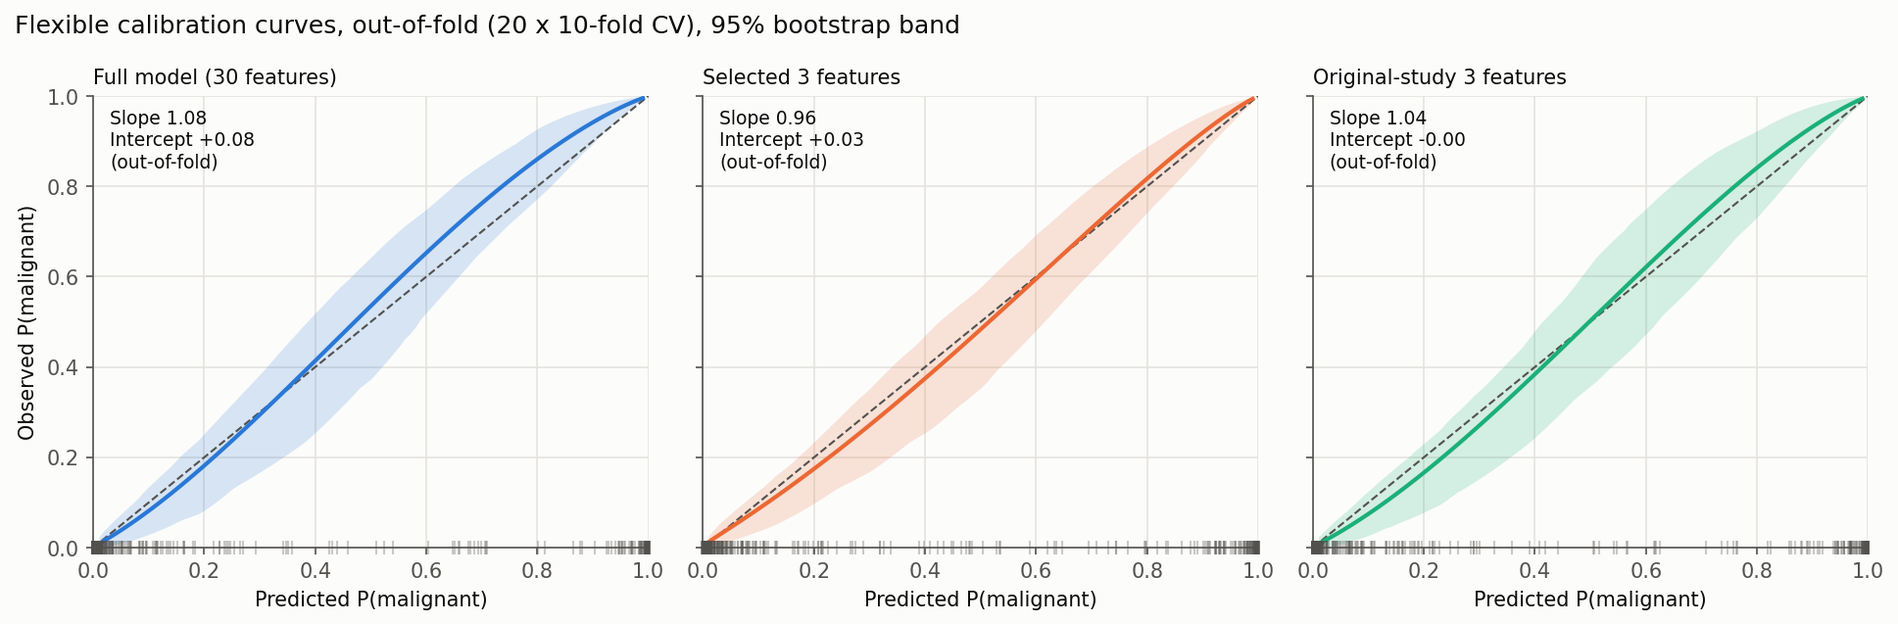
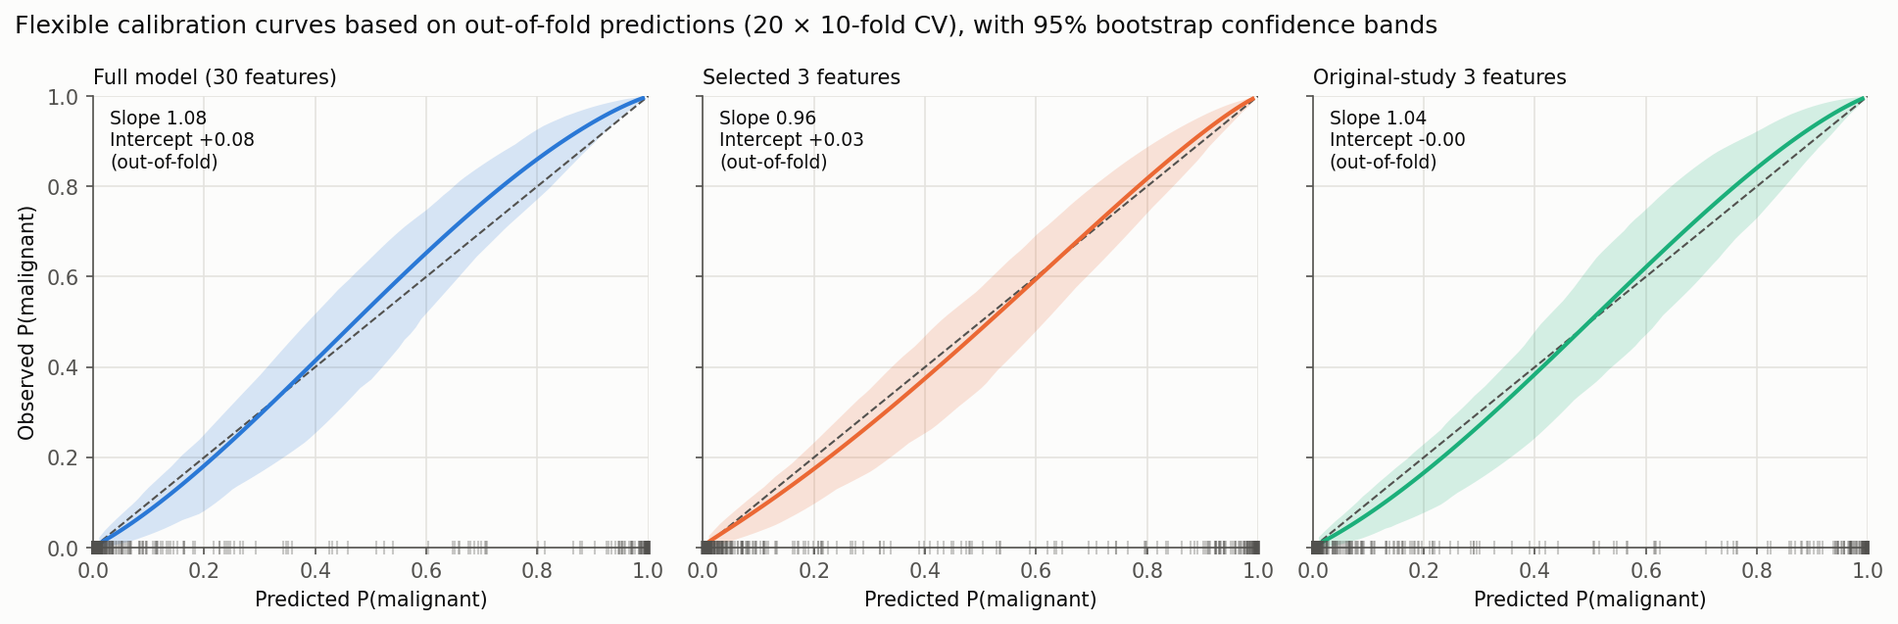
content(projects): align the WDBC page with the version 2 report
- New sections from the report: intended use (triple test), minimum
  sample size (Riley criteria), and the data-leakage checklist.
- Validation table gains the calibration intercept and slope SDs;
  sensitivity/specificity table at the 2% and 10% thresholds, with the
  cytopathology false-negative rate for comparison.
- Risk bands: malignant counts and published ranges, and the claim that
  every band matches is corrected (the atypical band is 13.5% vs 20%).
- Literature: the comparison table and the WBCD/WDBC note; the
  prospective 188/192 test is now called the most informative result,
  as in the report.
- Stability: original-feature model (1.1 points), median risk of the
  unstable cases, the changed forward-selection pick, the full equation
  with P and C = 10, and the full model's largest coefficients.
- Limitations and checks follow the report; the unsupported "inputs
  don't exist in clinics" point is dropped.
- References cover everything cited; figures updated to the v2 titles.

Changed region(s): [[0.1859, 0.0298, 0.7744, 0.0597]]

diff --git a/src/content/projects/wdbc-breast-cancer.md b/src/content/projects/wdbc-breast-cancer.md
@@ -6,8 +6,8 @@ summary: >-
   A malignancy model for the Wisconsin Diagnostic Breast Cancer data, built
   and validated to current clinical-prediction standards: bootstrap internal
   validation, calibration, decision curves at a clinically chosen biopsy
-  threshold, stability analysis, and an honest comparison with the original
-  1990s work.
+  threshold, sample size, stability analysis, and an honest comparison with
+  the original 1990s work.
 category: ml
 featured: false
 tags:
@@ -21,95 +21,179 @@ tags:
 
 ## About this project
 
-The Wisconsin Diagnostic Breast Cancer dataset is one of the most-used benchmarks in machine learning, and one of the most over-claimed: accuracies of 99% or more are common, often from a single lucky train/test split or from models tuned on the test set. This project asks a more useful question: what can honestly be said about a model for this data, if it is built and validated the way clinical prediction models are supposed to be? The analysis follows the methodological and clinical literature throughout: TRIPOD+AI reporting, calibration, decision curve analysis, minimum sample size, and model stability.
+The Wisconsin Diagnostic Breast Cancer dataset is one of the most-used benchmarks in machine learning, and one of the most over-claimed: accuracies of 99% or more are common, often from a single train/test split and sometimes from models tuned on the test set. This project asks a more useful question: what can honestly be said about a model for this data, if it is built and validated the way clinical prediction models are supposed to be? This is the second version of the analysis. It follows the methodological and clinical literature throughout: TRIPOD+AI reporting, internal validation by bootstrap, calibration, decision curve analysis at a biopsy threshold taken from clinical practice, minimum sample size, and model stability.
+
+## Intended use
+
+The setting is the evaluation of a breast mass by fine-needle aspiration. An operator outlines 10–20 cell nuclei on a digitised image of the slide, software measures the nuclei, and the model turns these measurements into a predicted probability of malignancy. The model is meant to support the cytology part of the triple test (clinical examination, imaging and cytology), not to replace the cytopathologist or the other two parts. The triple test is already very sensitive: it detects 99.6% of cancers when any part is positive [Irwig et al. 2002].
 
 ## The data
 
-The dataset has 569 fine-needle aspirates of breast masses, collected by Dr William H. Wolberg at the University of Wisconsin, Madison: 212 malignant and 357 benign. An operator outlined cell nuclei on a digitised image of each aspirate, and software measured ten properties of each nucleus, such as radius, texture, concavity and symmetry. Each property is reported three ways: the mean over nuclei, its standard error, and the "worst" value (the mean of the three largest). That gives 30 features. There are no missing values and no duplicate rows.
+The dataset has 569 fine-needle aspirates of breast masses, collected by Dr William H. Wolberg at the University of Wisconsin, Madison, and donated in November 1995: 212 malignant (37%) and 357 benign. Software measured ten properties of each nucleus, such as radius, texture, concavity and symmetry, and each property is reported three ways: the mean over nuclei, its standard error, and the "worst" value (the mean of the three largest). That gives 30 features. There are no missing values and no duplicate rows. The class imbalance was not corrected, because resampling distorts predicted probabilities.
+
+The outcome is the malignant or benign diagnosis recorded in the original study. In the group's later prospective series, benign diagnoses were confirmed by biopsy or by one year of follow-up [Wolberg et al. 1997], but the dataset documentation does not say how the 569 labels were established. No patient characteristics such as age or ethnicity are available.
 
 The classes are close to separable. A single feature, `perimeter_worst`, already separates them with an AUC of 0.975. The features are also highly redundant: radius, perimeter and area are close to the same measurement, and 21 pairs of features correlate above |r| = 0.9.
 
 ## The model
 
-The model is an L2-penalised logistic regression on the log-transformed, standardised features, with the penalty tuned by cross-validation. Logistic regression is the natural choice here. A systematic review found no performance benefit of machine learning over logistic regression for clinical prediction models [Christodoulou et al. 2019]. A logistic model gives probabilities that can be calibrated, and it can be written out in full. Three models were built: one on all 30 features, one on three features chosen by forward selection, and one on the three features used by the original study.
+The model is an L2-penalised logistic regression on the log-transformed, standardised features, with the penalty tuned by cross-validation. Logistic regression is the natural choice here. A systematic review found no performance benefit of machine learning over logistic regression for clinical prediction models [Christodoulou et al. 2019]. A logistic model gives probabilities that can be calibrated, and it can be written out in full. Three models were built: one on all 30 features, one on the three features used by the original study, and one on three features chosen by forward selection.
+
+## Is 569 cases enough?
+
+The minimum sample size was checked with the criteria of Riley et al. [2019, 2020, 2021]: the sample must be large enough to limit overfitting (an expected shrinkage factor of at least 0.9), to keep the gap between apparent and adjusted explained variance small, and to estimate the overall risk to within ±5 percentage points. The answer depends on how well the model is expected to discriminate:
+
+| Assumption | 30 predictors need | 3 predictors need |
+| --- | --- | --- |
+| Conservative default (Riley) | 2,303 | 360 |
+| Expected AUC 0.95 | 550 | 360 |
+| Expected AUC 0.99 | 479 | 360 |
+
+The original studies imply an AUC of at least 0.95. On that assumption, 569 cases are just enough for 30 predictors and comfortably enough for 3. Under the conservative default, the 30-feature model would be too large for the data, and it relies on the tuned L2 penalty to control overfitting. The internal validation below shows that the penalty does this job.
 
 ## Validating it properly
 
-With 569 cases, setting aside a test set wastes data and gives a noisy answer: a 20% test set would hold only about 42 cancers. Following current guidance [Steyerberg et al. 2001; Collins et al. 2024], each model was developed on all 569 cases. Its optimism was then estimated by refitting the entire procedure, including the penalty tuning and feature selection, on 500 bootstrap samples and on 20 repeats of 10-fold cross-validation.
+With 569 cases, setting aside a test set wastes data and gives a noisy answer: a 20% test set holds only about 42 cancers. Following current guidance [Steyerberg et al. 2001; Harrell et al. 1996; Collins et al. 2024], each model was developed on all 569 cases. Its optimism was then estimated by repeating the entire procedure, including the penalty tuning and the feature selection, on 500 bootstrap samples and on 20 repeats of 10-fold cross-validation.
 
-| Model | AUC (apparent → corrected) | Brier score | Accuracy | Calibration slope |
-|---|---|---|---|---|
-| Full model, 30 features | 0.998 → 0.996 | 0.018 | 98.0% | 1.08 |
-| Original-study 3 features | 0.993 → 0.993 | 0.022 | 97.7% | 1.04 |
-| Forward-selected 3 features | 0.992 → 0.990 | 0.024 | 97.1% | 0.96 |
+| Model | AUC (apparent → corrected) | Brier score | Accuracy | Calibration slope | Calibration intercept |
+| --- | --- | --- | --- | --- | --- |
+| Full model, 30 features | 0.998 → 0.996 | 0.018 | 98.0% | 1.08 ± 0.08 | +0.08 |
+| Original-study 3 features | 0.993 → 0.993 | 0.022 | 97.7% | 1.04 ± 0.03 | 0.00 |
+| Forward-selected 3 features | 0.992 → 0.990 | 0.024 | 97.1% | 0.96 ± 0.06 | +0.03 |
 
-A good AUC isn't enough for a model that outputs a risk: a predicted 20% should mean about 20%. Calibration was measured by the calibration slope and intercept, and by a flexible calibration curve [Van Calster et al. 2019]. All three models are well calibrated. One technical point: because the classes are nearly separable, the calibration slope has no stable estimate in some bootstrap samples (one in ten exceeded 3), so calibration was taken from repeated cross-validation, which gives stable estimates.
+_Brier score and accuracy are optimism-corrected. Calibration slope and intercept are the mean ± SD over 20 repeats of 10-fold cross-validation; the ideal values are 1 and 0. A slope slightly above 1 means slightly conservative, not overconfident, predictions._
 
-![Flexible calibration curves from out-of-fold predictions, with 95% bootstrap bands. All three models follow the diagonal.](/uploads/projects/wdbc-calibration.png "Figure 1: Flexible calibration curves from out-of-fold predictions, with 95% bootstrap bands. All three models follow the diagonal.")
+A good AUC isn't enough for a model that outputs a risk: a predicted 20% should mean about 20%. Calibration was measured by the calibration slope and intercept, and by a flexible calibration curve [Van Calster et al. 2016, 2019]. All three models are well calibrated. One technical point: because the classes are nearly separable, the calibration slope has no stable estimate in some bootstrap samples (it exceeded 3 in about one sample in ten, and reached 72 in one). The bootstrap is still fine for the AUC and Brier score, but calibration was taken from repeated cross-validation, which gives stable estimates, as Collins et al. [2024] also recommend.
+
+![Flexible calibration curves from out-of-fold predictions, with 95% bootstrap bands. All three curves lie close to the diagonal. The rug shows that most predictions are close to 0 or 1, which is why the bands are wide at intermediate probabilities.](/uploads/projects/wdbc-calibration.png "Figure 1: Flexible calibration curves from out-of-fold predictions, with 95% bootstrap bands. All three curves lie close to the diagonal. The rug shows that most predictions are close to 0 or 1, which is why the bands are wide at intermediate probabilities.")
 
 ## A biopsy threshold from clinical practice
 
-A diagnostic model is only useful if acting on it leads to better decisions. Rather than picking a cutoff from the data, the threshold was fixed in advance from how breast lesions are managed. In the BI-RADS system, a lesion with a malignancy risk of 2% or less is "probably benign" and gets short-interval follow-up, while above 2% a biopsy is recommended. A decision-analysis model also found about 2% to be optimal for women aged 42–75 [Burnside et al. 2012]. A 2% threshold means accepting up to 49 unnecessary biopsies to find one cancer.
+A diagnostic model is only useful if acting on it leads to better decisions. Rather than picking a cutoff from the data, the threshold was fixed in advance from how breast lesions are managed. In the BI-RADS system, a lesion with a malignancy risk of 2% or less is "probably benign" and gets short-interval follow-up, while above 2% a biopsy is recommended. A decision-analysis model also found about 2% to be optimal for women aged 42–75 [Burnside et al. 2012], and the Yokohama "benign" cytology category carries a pooled malignancy risk of about 1% [Nikas et al. 2023]. A 2% threshold means accepting up to 49 unnecessary biopsies to find one cancer. A 10% threshold was analysed as a sensitivity check.
 
-Decision curve analysis [Vickers et al. 2019] asks whether acting on the model beats the default strategies of biopsying everyone or no one. At the 2% threshold, the full model flags 99.3% of cancers and avoids 36 unnecessary biopsies per 100 patients. A 3-feature model avoids 21–25. At higher thresholds the gap closes: it is under one biopsy per 100 from about 9%. The extra features earn their place exactly where the clinical threshold sits.
+Decision curve analysis [Vickers & Elkin 2006; Vickers et al. 2019] asks whether acting on the model beats the default strategies of biopsying everyone or no one. The full and forward-selected models beat biopsying everyone at every threshold from 1% to 20%, and the original-feature model does from just above 1%. At the 2% threshold, the full model avoids about 36 unnecessary biopsies per 100 patients, and the three-feature models 21–25. The gap closes at higher thresholds and falls below one biopsy per 100 above about 9%. The extra features earn their place exactly where the clinical threshold sits.
 
 ![Decision curves over thresholds from 1% to 20%. Left: net benefit. Right: net unnecessary biopsies avoided per 100 patients, compared with biopsying everyone.](/uploads/projects/wdbc-decision-curve.png "Figure 2: Decision curves over thresholds from 1% to 20%. Left: net benefit. Right: net unnecessary biopsies avoided per 100 patients, compared with biopsying everyone.")
 
-The model's output can also be reported in risk bands that match the Yokohama system, which cytopathologists use to report breast aspirates. The observed malignancy rate in each band is close to the published risk for the matching category [Nikas et al. 2023]:
+| Model | Threshold | Sensitivity | Cancers missed (of 212) | Specificity | Benign biopsied (of 357) |
+| --- | --- | --- | --- | --- | --- |
+| Full model | 2% | 99.3% | 1.5 | 77.5% | 80 |
+| Original-study 3 features | 2% | 98.6% | 3.0 | 74.9% | 90 |
+| Full model | 10% | 98.0% | 4.2 | 90.0% | 36 |
+| Original-study 3 features | 10% | 98.3% | 3.6 | 88.0% | 43 |
 
-| Predicted risk | Cases | Observed malignant | Published risk (Yokohama) |
-|---|---|---|---|
-| 0–2% | 276 | 0.4% | Benign: 1% |
-| 2–10% | 49 | 6.1% | (BI-RADS 4A: 2–10%) |
-| 10–50% | 37 | 13.5% | Atypical: 20% |
-| 50–95% | 29 | 86.2% | Suspicious: 86% |
-| 95–100% | 178 | 100% | Malignant: 100% |
+_Out-of-fold predictions averaged over 20 repeats of 10-fold cross-validation, so counts can be fractional. For comparison, the pooled false-negative rate of aspiration cytology read by cytopathologists is 3.7% [Hoda & Brachtel 2019]._
+
+## Risk bands
+
+Cytopathologists report breast aspirates in the five categories of the Yokohama system [Field et al. 2019], each with an established risk of malignancy. Reporting the model's output in matching risk bands puts it in a framework clinicians already know. The observed malignancy rates are broadly consistent with the published ones, with one exception: the atypical-equivalent band (13.5% observed against 20% published).
+
+| Band | Predicted risk | Cases | Malignant | Observed rate | Published risk |
+| --- | --- | --- | --- | --- | --- |
+| Benign-equivalent | 0–2% | 276 | 1 | 0.4% | Yokohama Benign: 1% (1–3%) |
+| Low suspicion | 2–10% | 49 | 3 | 6.1% | BI-RADS 4A: >2–10% |
+| Atypical-equivalent | 10–50% | 37 | 5 | 13.5% | Yokohama Atypical: 20% (17–23%) |
+| Suspicious-equivalent | 50–95% | 29 | 25 | 86.2% | Yokohama Suspicious: 86% (79–92%) |
+| Malignant-equivalent | 95–100% | 178 | 178 | 100% | Yokohama Malignant: 100% (99–100%) |
+
+_Full model, out-of-fold predictions averaged over 20 repeats. Pooled Yokohama risks from Nikas et al. [2023] (18 studies, 7,969 cases); BI-RADS 4A range from Elezaby et al. [2018]. The prevalence of malignancy here is 37%; in a setting with a different prevalence, the model's intercept must be recalibrated before the bands mean the same thing._
 
 ## How stable are the results?
 
-A model developed on 569 cases could have come out differently on another sample of 569 [Riley & Collins 2023]. Refitted on 500 bootstrap samples, a patient's predicted risk moves by 1.6 percentage points on average. The unstable cases cluster around the 2% threshold, and 74 of the 79 whose decision flips in more than 10% of refitted models are benign.
+A model developed on 569 cases could have come out differently on another sample of 569 [Riley & Collins 2023]. Refitted on 500 bootstrap samples, a patient's predicted risk moves by 1.6 percentage points on average (1.1 for the original-feature model). The unstable cases sit near the 2% threshold: for 79 cases, more than 10% of the refitted models give the opposite decision, and 74 of them are benign, with a median predicted risk of 3%.
 
-A "best three features" model found by forward selection looks attractive, but it doesn't survive the bootstrap: the same procedure picked 46 different three-feature sets across 500 resamples, and the most common set appeared only 25% of the time. The original study's three features (mean texture, worst area and worst smoothness) were fixed in advance, so they don't vary between samples. They also give more stable predictions, so they make the better simple model:
+![Left: range of each case's prediction across 500 bootstrap models. Right: share of bootstrap models that flip each case's decision at the 2% threshold. Predictions near 0 or 1 are stable; instability is concentrated in borderline cases.](/uploads/projects/wdbc-stability.png "Figure 3: Left: range of each case's prediction across 500 bootstrap models. Right: share of bootstrap models that flip each case's decision at the 2% threshold. Predictions near 0 or 1 are stable; instability is concentrated in borderline cases.")
+
+A "best three features" model found by forward selection looks attractive, but it doesn't survive the bootstrap. The same procedure picked 46 different three-feature sets across 500 resamples, and the most common set appeared in only 25% of them. Run on all 569 cases, it now picks `smoothness_worst` where the first version of the analysis picked `concave points_mean`. Only `perimeter_worst` (85%) and `texture_worst` (77%) are chosen consistently.
+
+![How often forward selection picked each feature across 500 bootstrap samples. Only perimeter_worst and texture_worst are chosen consistently.](/uploads/projects/wdbc-selection-frequency.png "Figure 4: How often forward selection picked each feature across 500 bootstrap samples. Only perimeter_worst and texture_worst are chosen consistently.")
+
+The original study's three features (mean texture, worst area and worst smoothness) capture the same properties of the nuclei: size, texture and shape. They were fixed in advance, so they don't vary between samples, and they give better-calibrated and more stable predictions. They make the better simple model. TRIPOD+AI asks for enough detail to compute predictions independently, and this model is small enough to write out in full; the equation reproduces the fitted model's predictions exactly:
 
 $$
 \operatorname{logit} P(\text{malignant}) = -120.04 + 7.447\,\ln(1+\text{texture}_{\text{mean}}) + 12.458\,\ln(1+\text{area}_{\text{worst}}) + 111.72\,\ln(1+\text{smoothness}_{\text{worst}})
 $$
 
-![How often forward selection picked each feature across 500 bootstrap samples. Only perimeter_worst and texture_worst are chosen consistently.](/uploads/projects/wdbc-selection-frequency.png "Figure 3: How often forward selection picked each feature across 500 bootstrap samples. Only perimeter_worst and texture_worst are chosen consistently.")
-
-![Left: range of each case's prediction across 500 bootstrap models. Right: share of bootstrap models that flip each case's decision at the 2% threshold.](/uploads/projects/wdbc-stability.png "Figure 4: Left: range of each case's prediction across 500 bootstrap models. Right: share of bootstrap models that flip each case's decision at the 2% threshold.")
+with $P = 1/(1 + e^{-\operatorname{logit}})$ and an L2 penalty $C = 10$, tuned by inner cross-validation. All 30 coefficients of the full model, with the transformation and scaling constants, are saved with the code. Its largest standardised coefficients are for `texture_worst`, `radius_se`, `area_se` and `concave points_mean`; because the features are strongly correlated, individual coefficients should not be read as independent effects.
 
 ## Where this sits in the literature
 
-The original team picked a three-feature classifier with 97.5% cross-validated accuracy, then validated it on consecutive new patients: 188 of 192 correct (97.9%) [Wolberg et al. 1997]. A logistic regression on their three features scores 97.7% here, and the full model 98.0%. So this work **matches the original results; it does not beat them**. The most informative result in the literature is the least flattering one: on 56 difficult, indeterminate aspirates at another hospital, the same system reached 75% accuracy [Teague et al. 1997].
+The original team chose their classifier by searching over feature subsets, then tested it prospectively on consecutive new patients, a notably rigorous design for its time. That prospective test is the most informative result in the table below. Many later studies report 99% or more, often from a single train/test split and sometimes with the model tuned on the test set.
+
+| Study | Model | Validation | Result |
+| --- | --- | --- | --- |
+| Street, Wolberg & Mangasarian 1993–95 | One separating plane (MSM-T) on 3 features | Repeated 10-fold CV | 97.5% accuracy |
+| Wolberg et al. 1995, _Hum Pathol_ | Logistic regression | Cross-validation | 96.2% accuracy |
+| Wolberg et al. 1997, _Breast J_ | Same 3-feature classifier | Prospective, consecutive new patients | 188/192 (97.9%) |
+| Teague et al. 1997, _Cancer_ | Same system, 3 features | External (Iowa), 56 indeterminate aspirates | 75% accuracy |
+| Mert et al. 2015 | Neural network, 30 features | 20% hold-out; network size chosen on the test set | 99.1% (leaky) |
+| This project, full model | L2 logistic regression, 30 features | Bootstrap optimism-corrected | 98.0%, AUC 0.996 |
+| This project, original features | Logistic regression on the original 3 features | Bootstrap optimism-corrected | 97.7%, AUC 0.993 |
+
+_Only results on the 569-case dataset are included. The earlier 699-case Wisconsin Breast Cancer Database (WBCD) is a different dataset, with nine visually graded features and many duplicate records, and its results are often wrongly attributed to WDBC._
+
+So this work **matches the original results; it does not beat them**. And the least flattering result is a warning: on 56 difficult, indeterminate aspirates at another hospital, the same system reached only 75% accuracy [Teague et al. 1997].
+
+## Checking for data leakage
+
+Possible sources of leakage were checked against the taxonomy of Kapoor & Narayanan [2023]:
+
+- **Preprocessing.** The log transform and standardisation are fitted inside each training fold and bootstrap sample, never on data used for evaluation.
+- **Tuning and feature selection** are repeated inside each resample; no modelling decision uses evaluation data.
+- **No duplicates or oversampling.** The dataset has no duplicate records, and no synthetic cases were generated.
+- **No cherry-picked splits.** Results are averaged over 500 bootstrap samples and 20 cross-validation repeats with fixed seeds, not taken from the best of several splits.
+- **Fair comparisons.** Only results on the 569-case dataset are cited.
+- **Test data from the target population: not satisfied.** All validation is internal, on data from one centre and one period. Internal validation cannot rule out this kind of leakage.
 
 ## Limitations
 
-- **One operator, one hospital, 1990s imaging.** All validation here is internal. Only testing at another centre can show whether the model transfers, and the one historical attempt suggests it may not.
-- **The inputs don't exist in clinics today.** The model needs measurements from the original team's software, in which an operator traced nuclei by hand.
-- **Prevalence.** 37% of these cases are malignant. In a clinic with a different rate, the model's intercept must be recalibrated before its probabilities or risk bands mean the same thing.
+- **One operator, one hospital, 1990s imaging.** The original authors describe their system as validated for a single investigator at one institution, and on 56 indeterminate aspirates at another hospital it reached 75% accuracy [Teague et al. 1997]. External validation, with its own sample-size calculation [Riley et al. 2024], is needed before any clinical use.
+- **Prevalence.** 37% of these cases are malignant. The model's intercept must be recalibrated to the local prevalence before its probabilities or risk bands are used.
+- **Calibration at low risk.** With 357 benign and 212 malignant cases, calibration below about 5% risk is estimated with limited precision, and that is where the 2% threshold lies. Van Calster et al. suggest at least about 200 events and 200 non-events for calibration curves, which this dataset only just meets.
 - **No patient characteristics,** so performance across age or ethnic groups can't be checked.
+- **No provision for inadequate samples.** The model assumes an adequate aspirate with measurable nuclei; it has no equivalent of the Yokohama "non-diagnostic" category.
+- **Outcome ascertainment** for the 569 labels is not documented in the dataset.
+- **Not addressed:** protocol registration and patient and public involvement (TRIPOD+AI items 18–19).
 
 This is a methodological case study, not a clinical tool.
 
 ## How the results were checked
 
-- A full re-run reproduces every result file and figure byte for byte.
-- With the labels shuffled, the whole pipeline gives an AUC of 0.48, as it should when nothing leaks.
-- The bootstrap, re-implemented from scratch with different seeds, gives the same corrected AUC to three decimals.
-- The calibration measures recover the known answers on simulated data, and the sample-size formulas match the reference `pmsampsize` implementation term for term.
-- Every reference was checked against Crossref by DOI.
+- **Reproducibility.** A full re-run of the analysis reproduces every result file and figure exactly.
+- **Permutation test.** With the labels shuffled, the whole pipeline gives an AUC of 0.48, close to the 0.5 expected when nothing leaks.
+- **Independent implementation.** The bootstrap, re-implemented separately with different seeds and inner folds, gives an optimism-corrected AUC of 0.9929 for the original-feature model (main pipeline: 0.9926).
+- **Calibration measures.** On simulated data they recover the true values (slope 1 for calibrated predictions, 0.5 for overconfident ones, intercept −1 when risk is overestimated by 1 on the logit scale), and agree with an independent maximum-likelihood fit to four decimal places.
+- **Sample size.** The calculations match the reference `pmsampsize` implementation term by term.
+- **Net benefit and risk bands.** Net benefit recomputed from the reported sensitivity and specificity agrees with the decision curves, and the risk-band counts agree with the stored predictions.
+- **References.** Every reference was checked against Crossref by DOI.
 
 ## References
 
-- Burnside ES, Chhatwal J, Alagoz O. What is the optimal threshold at which to recommend breast biopsy? *PLoS ONE* 2012;7:e48820.
-- Christodoulou E, et al. A systematic review shows no performance benefit of machine learning over logistic regression for clinical prediction models. *J Clin Epidemiol* 2019;110:12–22.
-- Collins GS, et al. TRIPOD+AI statement. *BMJ* 2024;385:e078378; and Evaluation of clinical prediction models (part 1). *BMJ* 2024;384:e074819.
-- Nikas IP, et al. The use of the IAC Yokohama System for reporting breast fine-needle aspiration biopsy: a systematic review and meta-analysis. *Am J Clin Pathol* 2023;159:138–145.
-- Riley RD, Collins GS. Stability of clinical prediction models developed using statistical or machine learning methods. *Biom J* 2023;65:e2200302.
-- Steyerberg EW, et al. Internal validation of predictive models. *J Clin Epidemiol* 2001;54:774–781.
-- Teague MW, et al. Indeterminate fine-needle aspiration of the breast: image analysis-assisted diagnosis. *Cancer* 1997;81:129–135.
-- Van Calster B, et al. Calibration: the Achilles heel of predictive analytics. *BMC Med* 2019;17:230.
-- Vickers AJ, van Calster B, Steyerberg EW. A simple, step-by-step guide to interpreting decision curve analysis. *Diagn Progn Res* 2019;3:18.
-- Wolberg WH, Street WN, Mangasarian OL. Computerized diagnosis of breast fine-needle aspirates. *Breast J* 1997;3:77–80.
+- Burnside ES, Chhatwal J, Alagoz O. What is the optimal threshold at which to recommend breast biopsy? _PLoS ONE_ 2012;7:e48820.
+- Christodoulou E, et al. A systematic review shows no performance benefit of machine learning over logistic regression for clinical prediction models. _J Clin Epidemiol_ 2019;110:12–22.
+- Collins GS, Moons KGM, Dhiman P, et al. TRIPOD+AI statement. _BMJ_ 2024;385:e078378.
+- Collins GS, Dhiman P, Ma J, et al. Evaluation of clinical prediction models (part 1). _BMJ_ 2024;384:e074819.
+- Elezaby M, Li G, Bhargavan-Chatfield M, Burnside ES, DeMartini WB. ACR BI-RADS assessment category 4 subdivisions in diagnostic mammography: utilization and outcomes in the National Mammography Database. _Radiology_ 2018;287:416–422.
+- Field AS, Raymond WA, Rickard M, et al. The IAC Yokohama System for Reporting Breast FNAB Cytopathology. _Acta Cytol_ 2019;63:257–273.
+- Harrell FE, Lee KL, Mark DB. Multivariable prognostic models. _Stat Med_ 1996;15:361–387.
+- Hoda RS, Brachtel EF. International Academy of Cytology Yokohama System for Reporting Breast Fine-Needle Aspiration Biopsy Cytopathology: a review of predictive values and risks of malignancy. _Acta Cytol_ 2019;63:292–301.
+- Irwig L, Macaskill P, Houssami N. Evidence relevant to the investigation of breast symptoms: the triple test. _Breast_ 2002;11:215–220.
+- Kapoor S, Narayanan A. Leakage and the reproducibility crisis in machine-learning-based science. _Patterns_ 2023;4:100804.
+- Mangasarian OL, Street WN, Wolberg WH. Breast cancer diagnosis and prognosis via linear programming. _Oper Res_ 1995;43:570–577.
+- Mert A, Kılıç N, Bilgili E, Akan A. Breast cancer detection with reduced feature set. _Comput Math Methods Med_ 2015:265138.
+- Nikas IP, Vey JA, Proctor T, et al. The use of the IAC Yokohama System for reporting breast fine-needle aspiration biopsy: a systematic review and meta-analysis. _Am J Clin Pathol_ 2023;159:138–145.
+- Riley RD, Snell KIE, Ensor J, et al. Minimum sample size for developing a multivariable prediction model: part II. _Stat Med_ 2019;38:1276–1296.
+- Riley RD, Ensor J, Snell KIE, et al. Calculating the sample size required for developing a clinical prediction model. _BMJ_ 2020;368:m441.
+- Riley RD, Van Calster B, Collins GS. Estimating the Cox-Snell R² from a reported C statistic. _Stat Med_ 2021;40:859–864.
+- Riley RD, Collins GS. Stability of clinical prediction models developed using statistical or machine learning methods. _Biom J_ 2023;65:e2200302.
+- Riley RD, Archer L, Snell KIE, et al. Evaluation of clinical prediction models (part 2): how to undertake an external validation study. _BMJ_ 2024;384:e074820.
+- Steyerberg EW, Harrell FE, Borsboom GJ, et al. Internal validation of predictive models. _J Clin Epidemiol_ 2001;54:774–781.
+- Street WN, Wolberg WH, Mangasarian OL. Nuclear feature extraction for breast tumor diagnosis. _Proc SPIE_ 1993;1905:861–870.
+- Teague MW, Wolberg WH, Street WN, et al. Indeterminate fine-needle aspiration of the breast: image analysis-assisted diagnosis. _Cancer_ 1997;81:129–135.
+- Van Calster B, Nieboer D, Vergouwe Y, et al. A calibration hierarchy for risk models was defined. _J Clin Epidemiol_ 2016;74:167–176.
+- Van Calster B, McLernon DJ, van Smeden M, et al. Calibration: the Achilles heel of predictive analytics. _BMC Med_ 2019;17:230.
+- Vickers AJ, Elkin EB. Decision curve analysis: a novel method for evaluating prediction models. _Med Decis Making_ 2006;26:565–574.
+- Vickers AJ, van Calster B, Steyerberg EW. A simple, step-by-step guide to interpreting decision curve analysis. _Diagn Progn Res_ 2019;3:18.
+- Wolberg WH, Street WN, Heisey DM, Mangasarian OL. Computer-derived nuclear features distinguish malignant from benign breast cytology. _Hum Pathol_ 1995;26:792–796.
+- Wolberg WH, Street WN, Mangasarian OL. Computerized diagnosis of breast fine-needle aspirates. _Breast J_ 1997;3:77–80.
 - Wolberg WH, Mangasarian OL, Street WN. Breast Cancer Wisconsin (Diagnostic). UCI Machine Learning Repository, 1995. doi:10.24432/C5DW2B. Also on [Kaggle](https://www.kaggle.com/datasets/uciml/breast-cancer-wisconsin-data).
